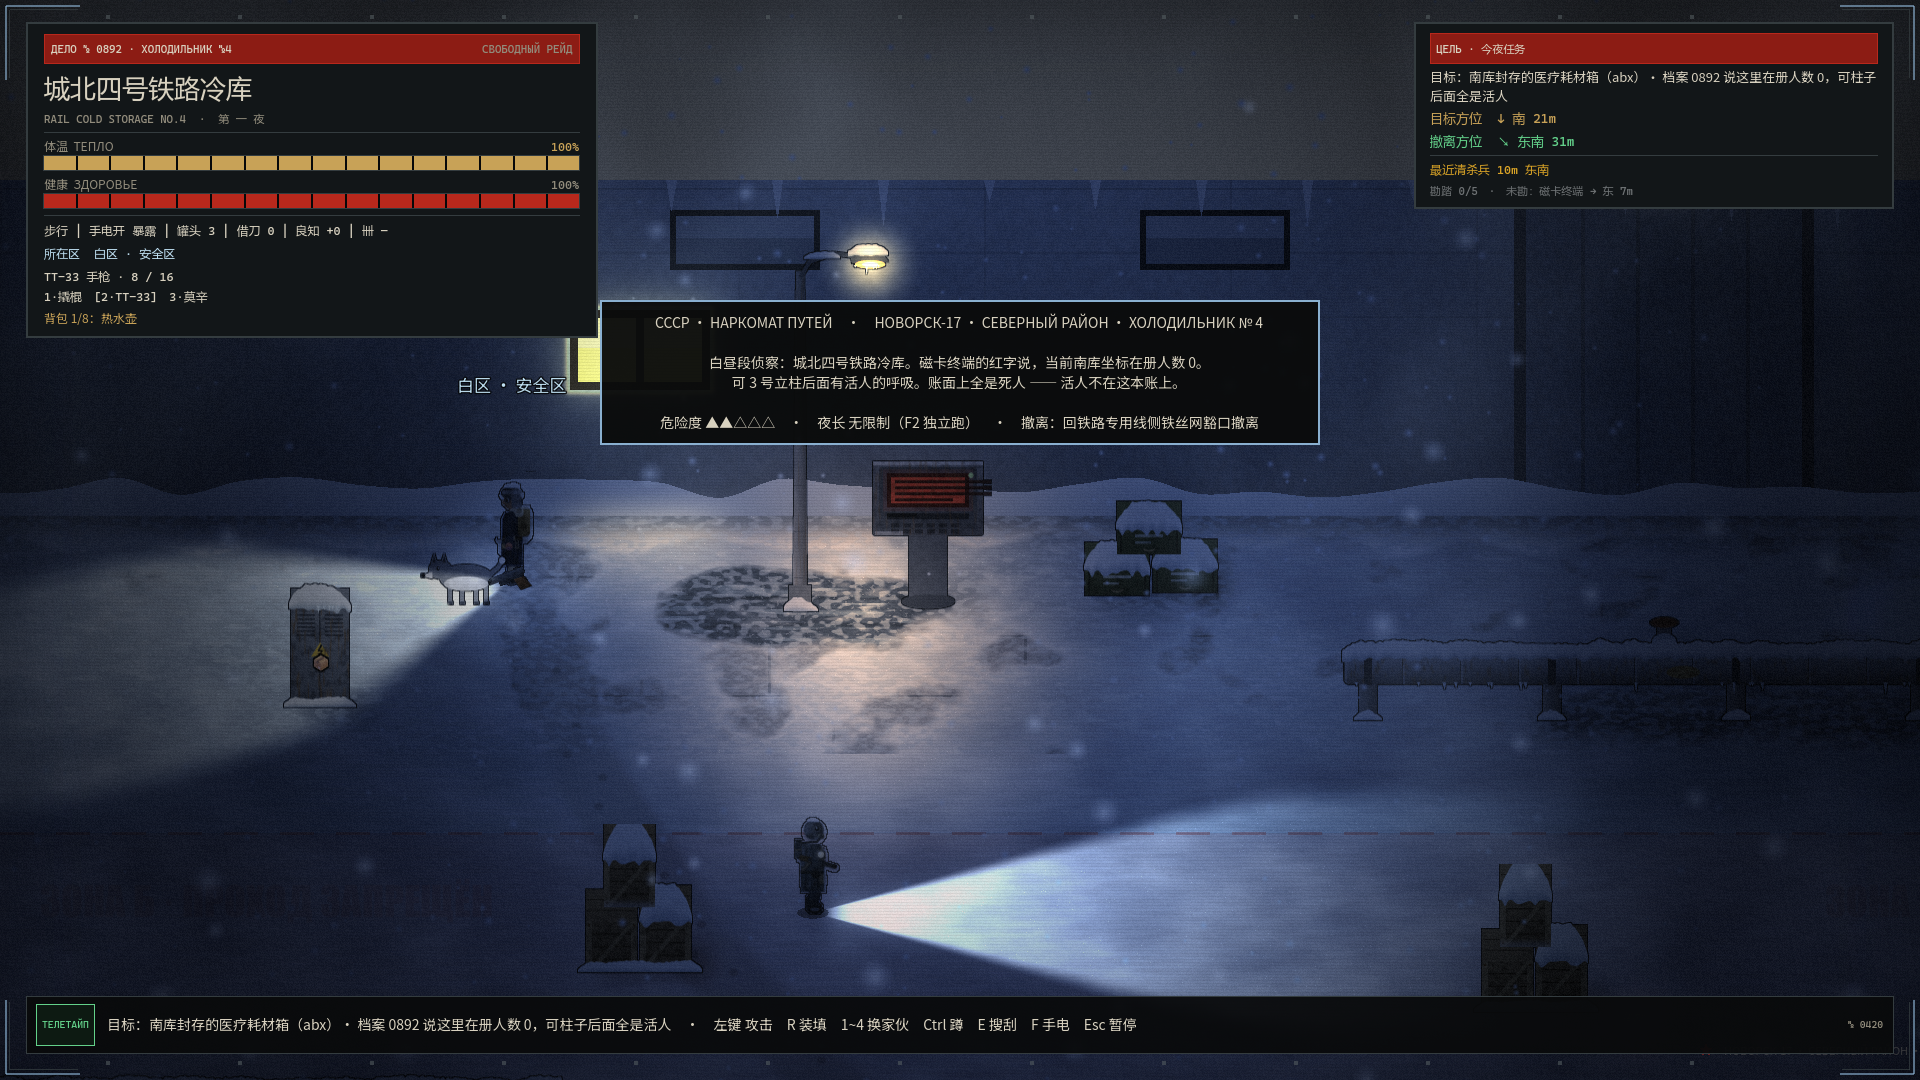
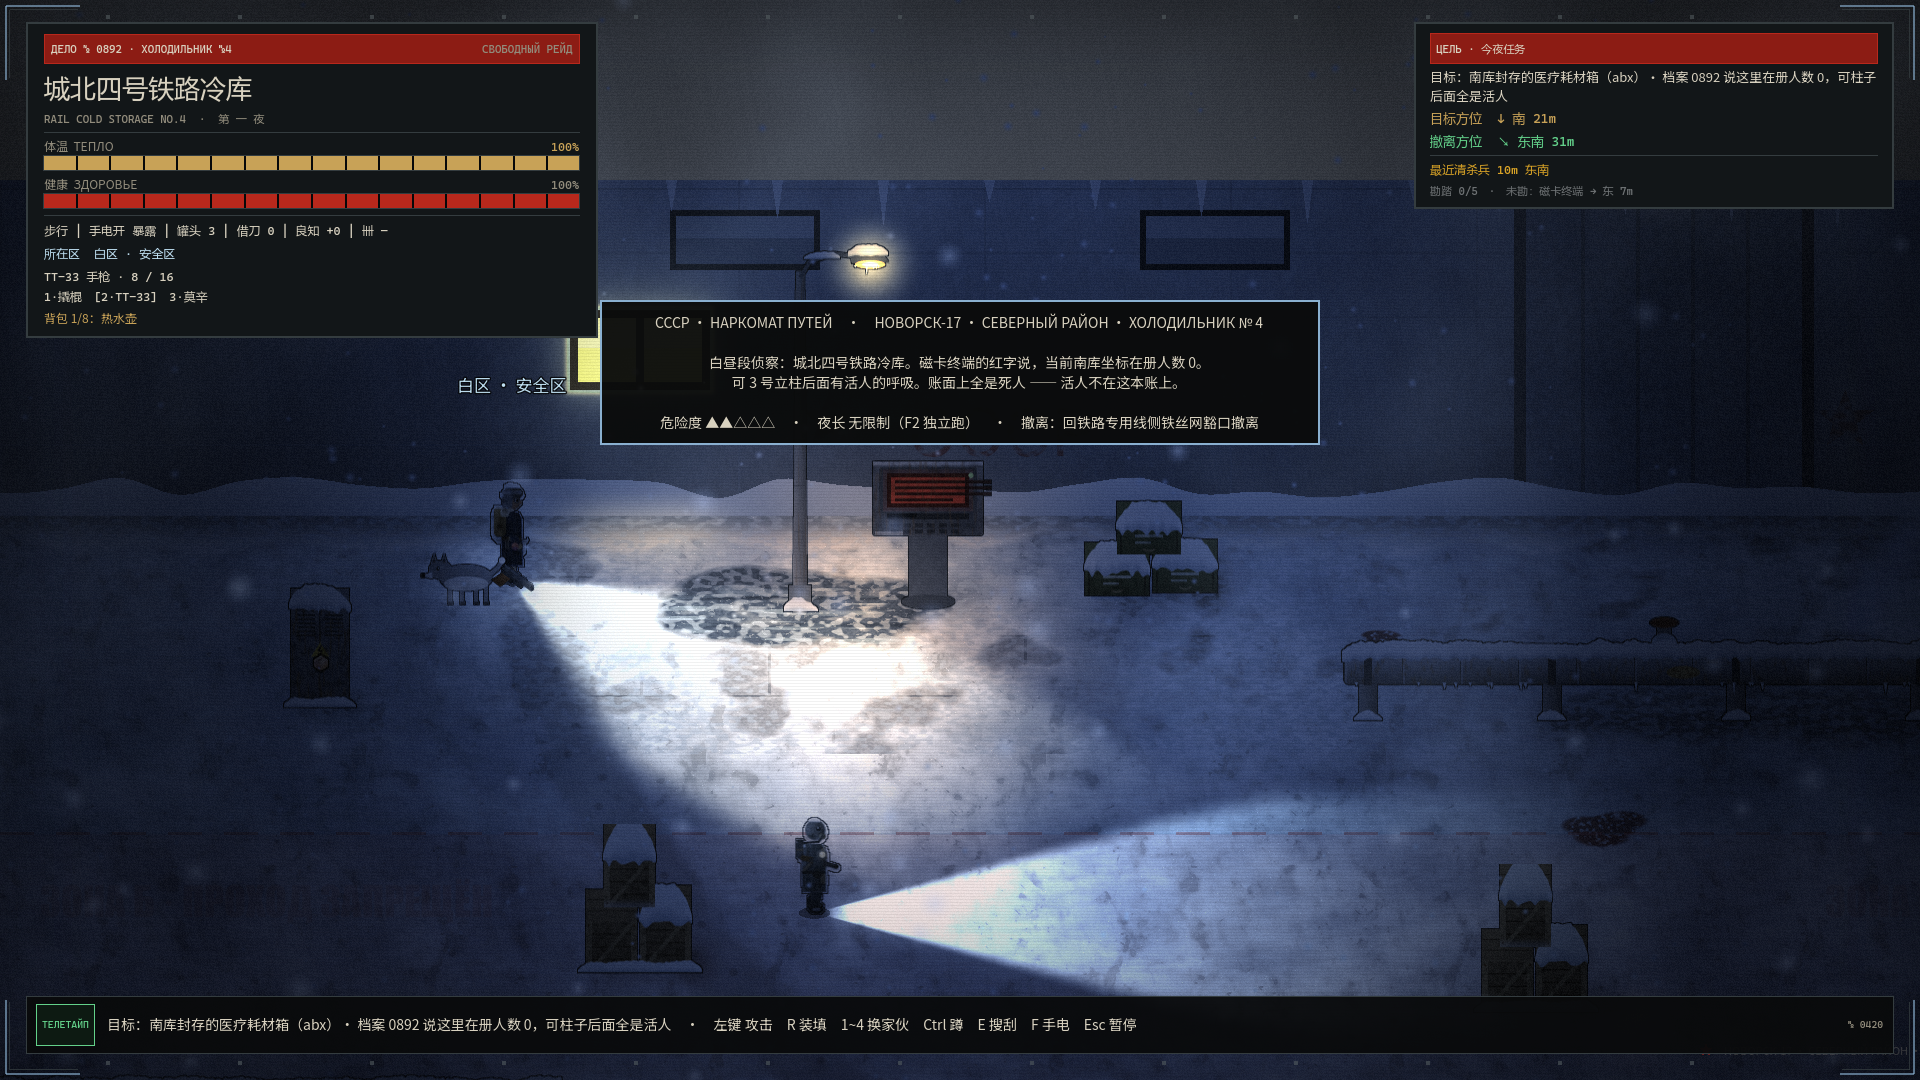
美术：立面材质化 + 地面真实雪叠加 + VFX 氛围（呼吸白气/血迹/涂鸦）
立面：冷库/工人镇/庄园恒温库/矿井工棚→Metal025 锈金属，庄园焚化车间→Bricks097 真实老砖（mat_tex，缺素材回退程序噪声）；新素材 Bricks097/Metal025/Plaster003（ambientCG CC0）。地面：Snow014 真实雪纹理叠雪底自然颗粒。VFX：玩家呼吸白气（每 3.4s 白雾上升淡出）、地面血迹喷溅、北墙墙裙西里尔标语+五角星涂鸦。8 关地面+立面重新生成并截图验收，全量回归 11 套 1212 断言全过。

diff --git a/godot_project/tools/art_gen/gen_env.py b/godot_project/tools/art_gen/gen_env.py
@@ -81,6 +81,82 @@ def _line_mask(w, h, polylines, width, blur_r):
 # ===========================================================================
 # 地面
 # ===========================================================================
+def _snow_albedo(h, w, name="Snow014", px=340.0, strength=0.16):
+    """真实雪材质（ambientCG Snow014，CC0）灰度平铺成乘性细节层，归一到 1±strength。
+    只给雪底加自然雪晶颗粒 / 起伏，不改变配色与布局；素材缺失时返回全 1（不影响离线复现）。"""
+    import os
+    path = os.path.join(os.path.dirname(__file__), "textures", f"{name}_Color.jpg")
+    if not os.path.exists(path):
+        return np.ones((h, w), np.float32)
+    im = Image.open(path).convert("L")
+    th = max(8, int(px))
+    tw = max(8, int(im.width * th / im.height))
+    g = np.asarray(im.resize((tw, th), Image.LANCZOS), np.float32) / 255.0
+    lo, hi = np.percentile(g, 2), np.percentile(g, 98)
+    g = np.clip((g - lo) / max(1e-6, hi - lo), 0, 1)
+    G = np.tile(g, (int(np.ceil(h / th)), int(np.ceil(w / tw))))[:h, :w]
+    return (1.0 - strength + 2.0 * strength * G).astype(np.float32)
+
+
+def _blood_decals(col, X, Y, h, w, seed=77):
+    """雪地暗红血迹贴花：几处不规则喷溅（重叠椭圆 + 噪声侵蚀边缘），暗示清杀 / 饥荒的阴冷。
+    只落在院子活动区（北墙脚以南），纯视觉，不影响布局 / 路线 / 掩体；素材与玩法均无依赖。"""
+    rng = np.random.default_rng(seed)
+    y_lo = float(LY.FACADE_BASE_Y) + 0.6
+    y_hi = float(LY.H) - 0.6
+    if y_hi <= y_lo:
+        return col
+    blood = hexc("#3d1010")[None, None, :]          # 干涸的暗红
+    for _ in range(int(rng.integers(2, 4))):
+        cx = float(rng.uniform(2.0, float(LY.W) - 2.0))
+        cy = float(rng.uniform(y_lo, y_hi))
+        r = float(rng.uniform(0.35, 0.7))            # 主血泊半径（米）
+        pool = np.zeros((h, w), np.float32)
+        for _ in range(int(rng.integers(5, 9))):     # 主血泊 + 卫星飞溅
+            ox = float(rng.uniform(-r, r))
+            oy = float(rng.uniform(-r, r)) * 0.6
+            rr = float(rng.uniform(r * 0.3, r))
+            dd = ((X - cx - ox) / rr) ** 2 + ((Y - cy - oy) / (rr * 0.62)) ** 2
+            pool = np.maximum(pool, smooth(1.1, 0.5, dd))
+        pool *= smooth(0.25, 0.7, vnoise(h, w, 3.0, 2.0, int(rng.integers(0, 999))) + 0.25)
+        col = _mix(col, np.clip(pool, 0, 1) * 0.72, blood)
+    return col
+
+
+def _graffiti(img: Image.Image, seed: int = 5) -> Image.Image:
+    """北墙墙裙喷绘：褪色五角星 + 西里尔标语（МИР=和平 / СССР / 1917），做旧喷漆，苏联废墟感。
+    只喷在立面下段实墙带（墙裙，一般无窗门），暗红半透明 + 噪声斑驳，像多年风霜后的旧标语。"""
+    from PIL import ImageDraw, ImageFont
+    base = img.convert("RGBA")
+    ov = Image.new("RGBA", base.size, (0, 0, 0, 0))
+    d = ImageDraw.Draw(ov)
+    W, H = base.size
+    rng = np.random.default_rng(seed)
+    gy = int(H * 0.80)                                # 墙裙带（立面下段实墙）
+    try:
+        font = ImageFont.truetype("arial.ttf", int(H * 0.11))
+    except Exception:
+        font = ImageFont.load_default()
+    for _ in range(int(rng.integers(1, 3))):
+        cx = int(W * rng.uniform(0.12, 0.78))
+        txt = str(rng.choice(["МИР", "СССР", "1917"]))
+        col = (96, 42, 38, int(rng.integers(110, 150)))  # 褪色暗红喷漆
+        d.text((cx, gy), txt, font=font, fill=col)
+        sx = cx - int(H * 0.13)                        # 标语旁的五角星
+        sy = gy + int(H * 0.04)
+        r = int(H * 0.05)
+        pts = []
+        for k in range(10):
+            ang = -np.pi / 2 + k * np.pi / 5
+            rr = r if k % 2 == 0 else r * 0.42
+            pts.append((sx + rr * np.cos(ang), sy + rr * np.sin(ang)))
+        d.polygon(pts, fill=col)
+    ov_arr = np.asarray(ov).astype(np.float32)         # 喷漆斑驳（噪声擦掉一部分）
+    ov_arr[..., 3] *= np.clip(vnoise(H, W, 6, 4, seed + 3) * 1.4, 0, 1)
+    ov = Image.fromarray(ov_arr.astype(np.uint8), "RGBA")
+    return Image.alpha_composite(base, ov)
+
+
 def bake_ground() -> Image.Image:
     w, h = _gw(), _gh()
     xs = (np.arange(w, dtype=np.float32) + 0.5) / PPM
@@ -98,6 +174,7 @@ def bake_ground() -> Image.Image:
     col = lerp(hexc("#95a4b6"), hexc("#d8e1ea"), smooth(0.05, 0.95, nb * 0.55 + nm * 0.45))
     col = col * (0.965 + 0.07 * rip)[..., None]
     col = col * (0.985 + 0.03 * nf)[..., None]
+    col = col * _snow_albedo(h, w)[..., None]   # Snow014 真实雪晶颗粒（雪底细节层）
 
     # ---- 雪径（踩实的灰雪 + 脚印）----
     pathm = _line_mask(w, h, LY.PATHS, 64, 16)
@@ -316,6 +393,7 @@ def bake_ground() -> Image.Image:
     col = col * (0.985 + 0.03 * np.random.default_rng(92).random((h, w)))[..., None]
     # 楼体脚下（被立面盖住的部分）直接压黑
     col = col * np.where(Y < LY.FACADE_BASE_Y - 0.05, 0.25, 1.0)[..., None]
+    col = _blood_decals(col, X, Y, h, w)
     return to_img(col)
 
 
@@ -748,6 +826,12 @@ def _drainpipe(h: int) -> Image.Image:
 
 
 def bake_facade() -> tuple[Image.Image, Image.Image]:
+    """北侧立面 + 墙裙涂鸦贴花。返回 (立面精灵, 窗光灯光贴图)。"""
+    img, glow = _bake_facade_raw()
+    return _graffiti(img), glow
+
+
+def _bake_facade_raw() -> tuple[Image.Image, Image.Image]:
     """北侧立面：按 LY.META["facade"] 选一种墙。返回 (立面精灵, 窗光灯光贴图)。"""
     kind = facade_kind()
     if kind == "depot":
@@ -780,7 +864,7 @@ def _facade_coldstore() -> tuple[Image.Image, Image.Image]:
     F = LY.FACADE_FEATURES
     # 保温板墙：横向大板 + 板缝 + 霜挂
     wall = L.rect(0, base - 330, w, base)
-    L.paint(wall, L.tex("#8a97a4", 0.07, 6, 1511))
+    L.paint(wall, L.mat_tex("#8a97a4", "Metal025", px_h=330, contrast=0.5, seed=1511))
     L.shade(wall, L.gy(base - 330, base, 1.1, 0.72))
     for vy in range(base - 322, base - 8, 64):
         L.paint(L.rect(0, vy, w, vy + 2.4), hexc("#6c7a88"), 0.6)
@@ -978,7 +1062,7 @@ def _town_shack(L: Layer, x0: int, bw: int, bh: int, seed: int, base: int,
     pal = ["#6b5138", "#5f5647", "#555b62", "#6a5a44", "#5a4a38"]
     wall_c = pal[seed % len(pal)]
     wall = L.rect(x0 + 6, base - bh, x0 + bw - 6, base)
-    L.paint(wall, L.tex(wall_c, 0.1, 5, seed))
+    L.paint(wall, L.mat_tex(wall_c, "Metal025", px_h=float(bh), contrast=0.45, seed=seed))
     L.shade(wall, L.gy(base - bh, base, 1.08, 0.7))
     for vx in range(x0 + 14, x0 + bw - 12, 26):        # 板缝
         L.paint(L.rect(vx, base - bh, vx + 1.6, base), hexc("#3c3122"), 0.5)
@@ -1207,7 +1291,7 @@ def _mine_shed(seed: int) -> tuple[Image.Image, tuple]:
     L = Layer(w, h, 1)
     base = h - 2
     wall = L.rect(14, 42, 236, base)
-    L.paint(wall, L.tex("#5a6169", 0.08, 5, seed))
+    L.paint(wall, L.mat_tex("#5a6169", "Metal025", px_h=168.0, contrast=0.45, seed=seed))
     L.shade(wall, L.gy(42, base, 1.15, 0.72))
     for vx in range(18, 236, 16):                 # 波纹板竖缝
         L.paint(L.rect(vx, 42, vx + 1.6, base), hexc("#464c53"), 0.7)
@@ -1738,7 +1822,7 @@ def _facade_manor() -> tuple[Image.Image, Image.Image]:
 
     # ---- 左：恒温库保温板墙 ----
     dep = L.rect(0, wall_top, split, plinth_top)
-    L.paint(dep, L.tex("#79828a", 0.05, 10, 601))
+    L.paint(dep, L.mat_tex("#79828a", "Metal025", px_h=float(plinth_top - wall_top), contrast=0.5, seed=601))
     for xx in np.arange(24, split, 76):        # 保温板竖缝
         L.paint(L.rect(xx, wall_top, xx + 2.4, plinth_top), hexc("#5a626a"), 0.8)
         L.paint(L.rect(xx + 2.4, wall_top, xx + 3.6, plinth_top), hexc("#98a1a9"), 0.5)
@@ -1792,7 +1876,7 @@ def _facade_manor() -> tuple[Image.Image, Image.Image]:
 
     # ---- 右：焚化车间 ----
     hall = L.rect(split, wall_top - 26, w, plinth_top)
-    _depot_brick(L, hall, 650, base="#5e463c")
+    L.paint(hall, L.mat_tex("#5e463c", "Bricks097", px_h=float(plinth_top - wall_top + 26), contrast=0.55, seed=650))
     L.shade(hall, L.gy(wall_top - 26, plinth_top, 1.05, 0.8))
     # 烟囱
     chx = F.get("chimney_x", 40.0) * PPM

diff --git a/godot_project/tools/art_gen/textures/CREDITS.md b/godot_project/tools/art_gen/textures/CREDITS.md
@@ -6,7 +6,10 @@
 | 文件 | 来源 | 用途 |
 |------|------|------|
 | `Concrete035_Color.jpg` | https://ambientcg.com/a/Concrete035 | 真实混凝土纹理，用于食堂 / 疗养院立面墙面（`Layer.mat_tex`） |
-| `Snow014_Color.jpg` | https://ambientcg.com/a/Snow014 | 真实雪纹理，备用（地面细节叠加） |
+| `Snow014_Color.jpg` | https://ambientcg.com/a/Snow014 | 真实雪纹理，户外雪底细节叠加（`gen_env._snow_albedo`） |
+| `Bricks097_Color.jpg` | https://ambientcg.com/a/Bricks097 | 真实老砖纹理，庄园焚化车间立面（`Layer.mat_tex`） |
+| `Metal025_Color.jpg` | https://ambientcg.com/a/Metal025 | 真实金属 / 锈板纹理，冷库保温板、工人镇板房、庄园恒温库、矿井工棚立面（`Layer.mat_tex`） |
+| `Plaster003_Color.jpg` | https://ambientcg.com/a/Plaster003 | 真实灰泥纹理，备用（立面灰泥墙） |
 
 说明：
 - 仅取 **Color（albedo）** 单图做 2D 纹理映射；normal / roughness / displacement 等 PBR 通道未使用。
